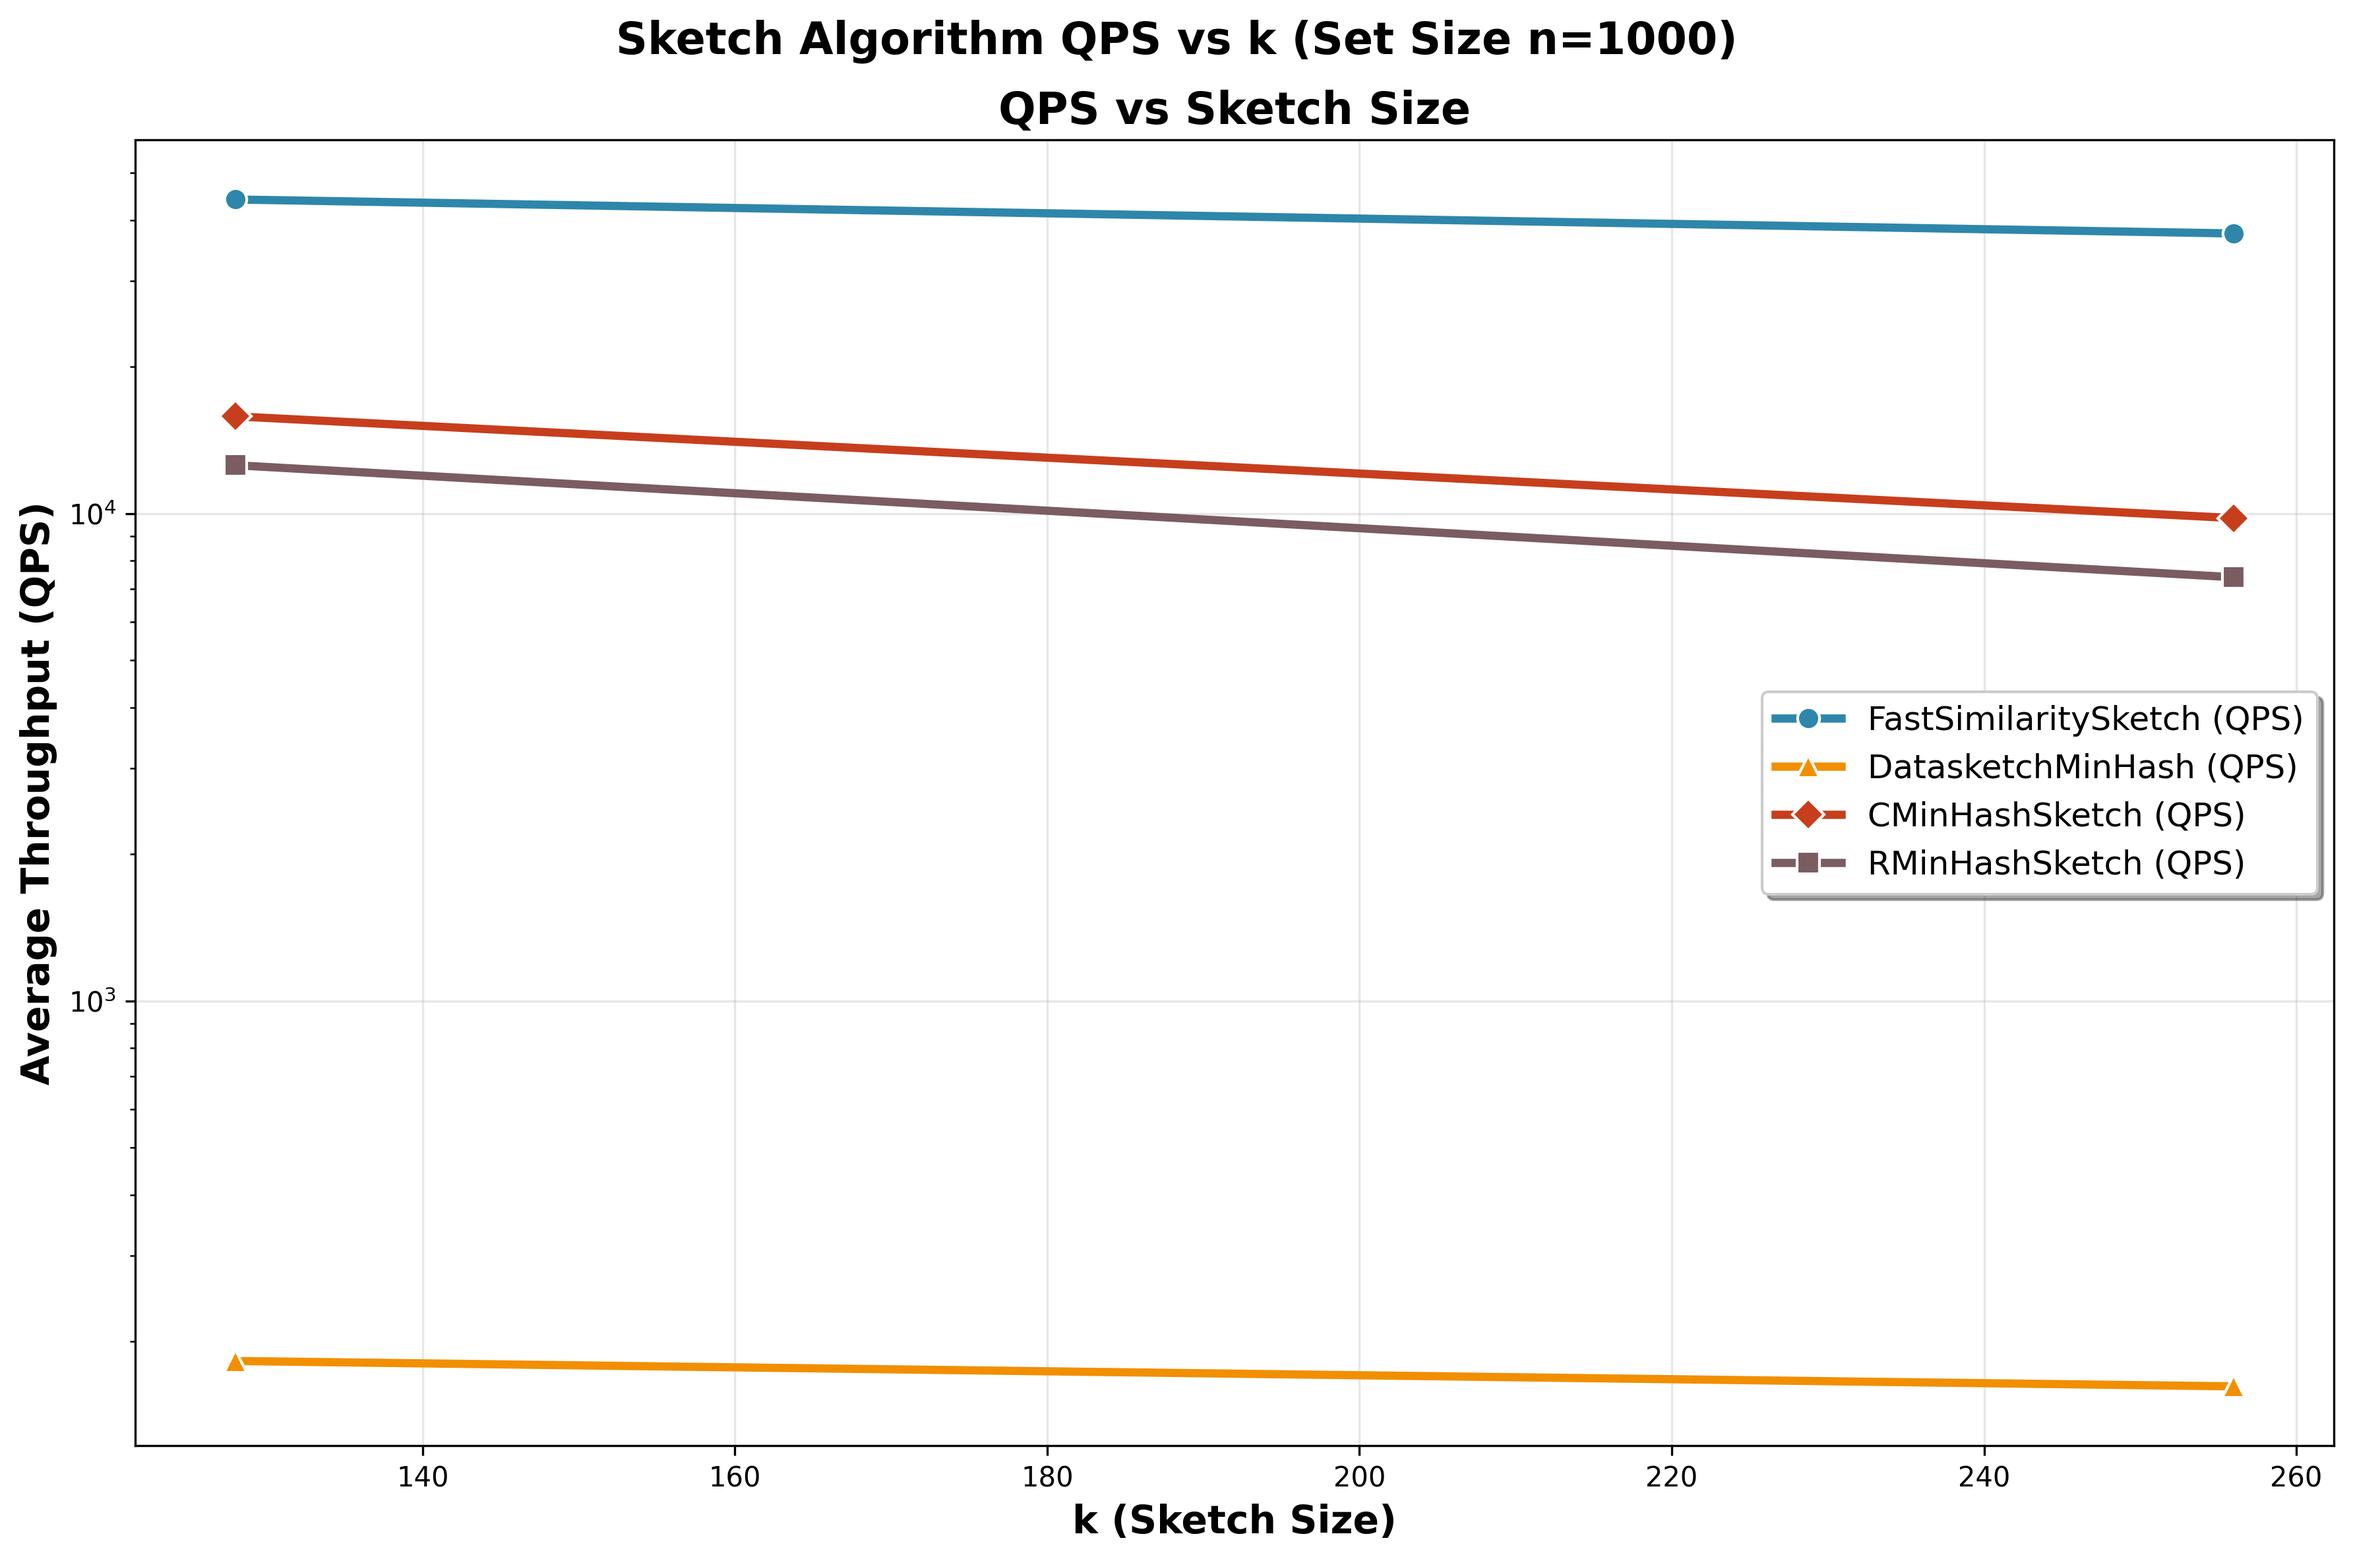
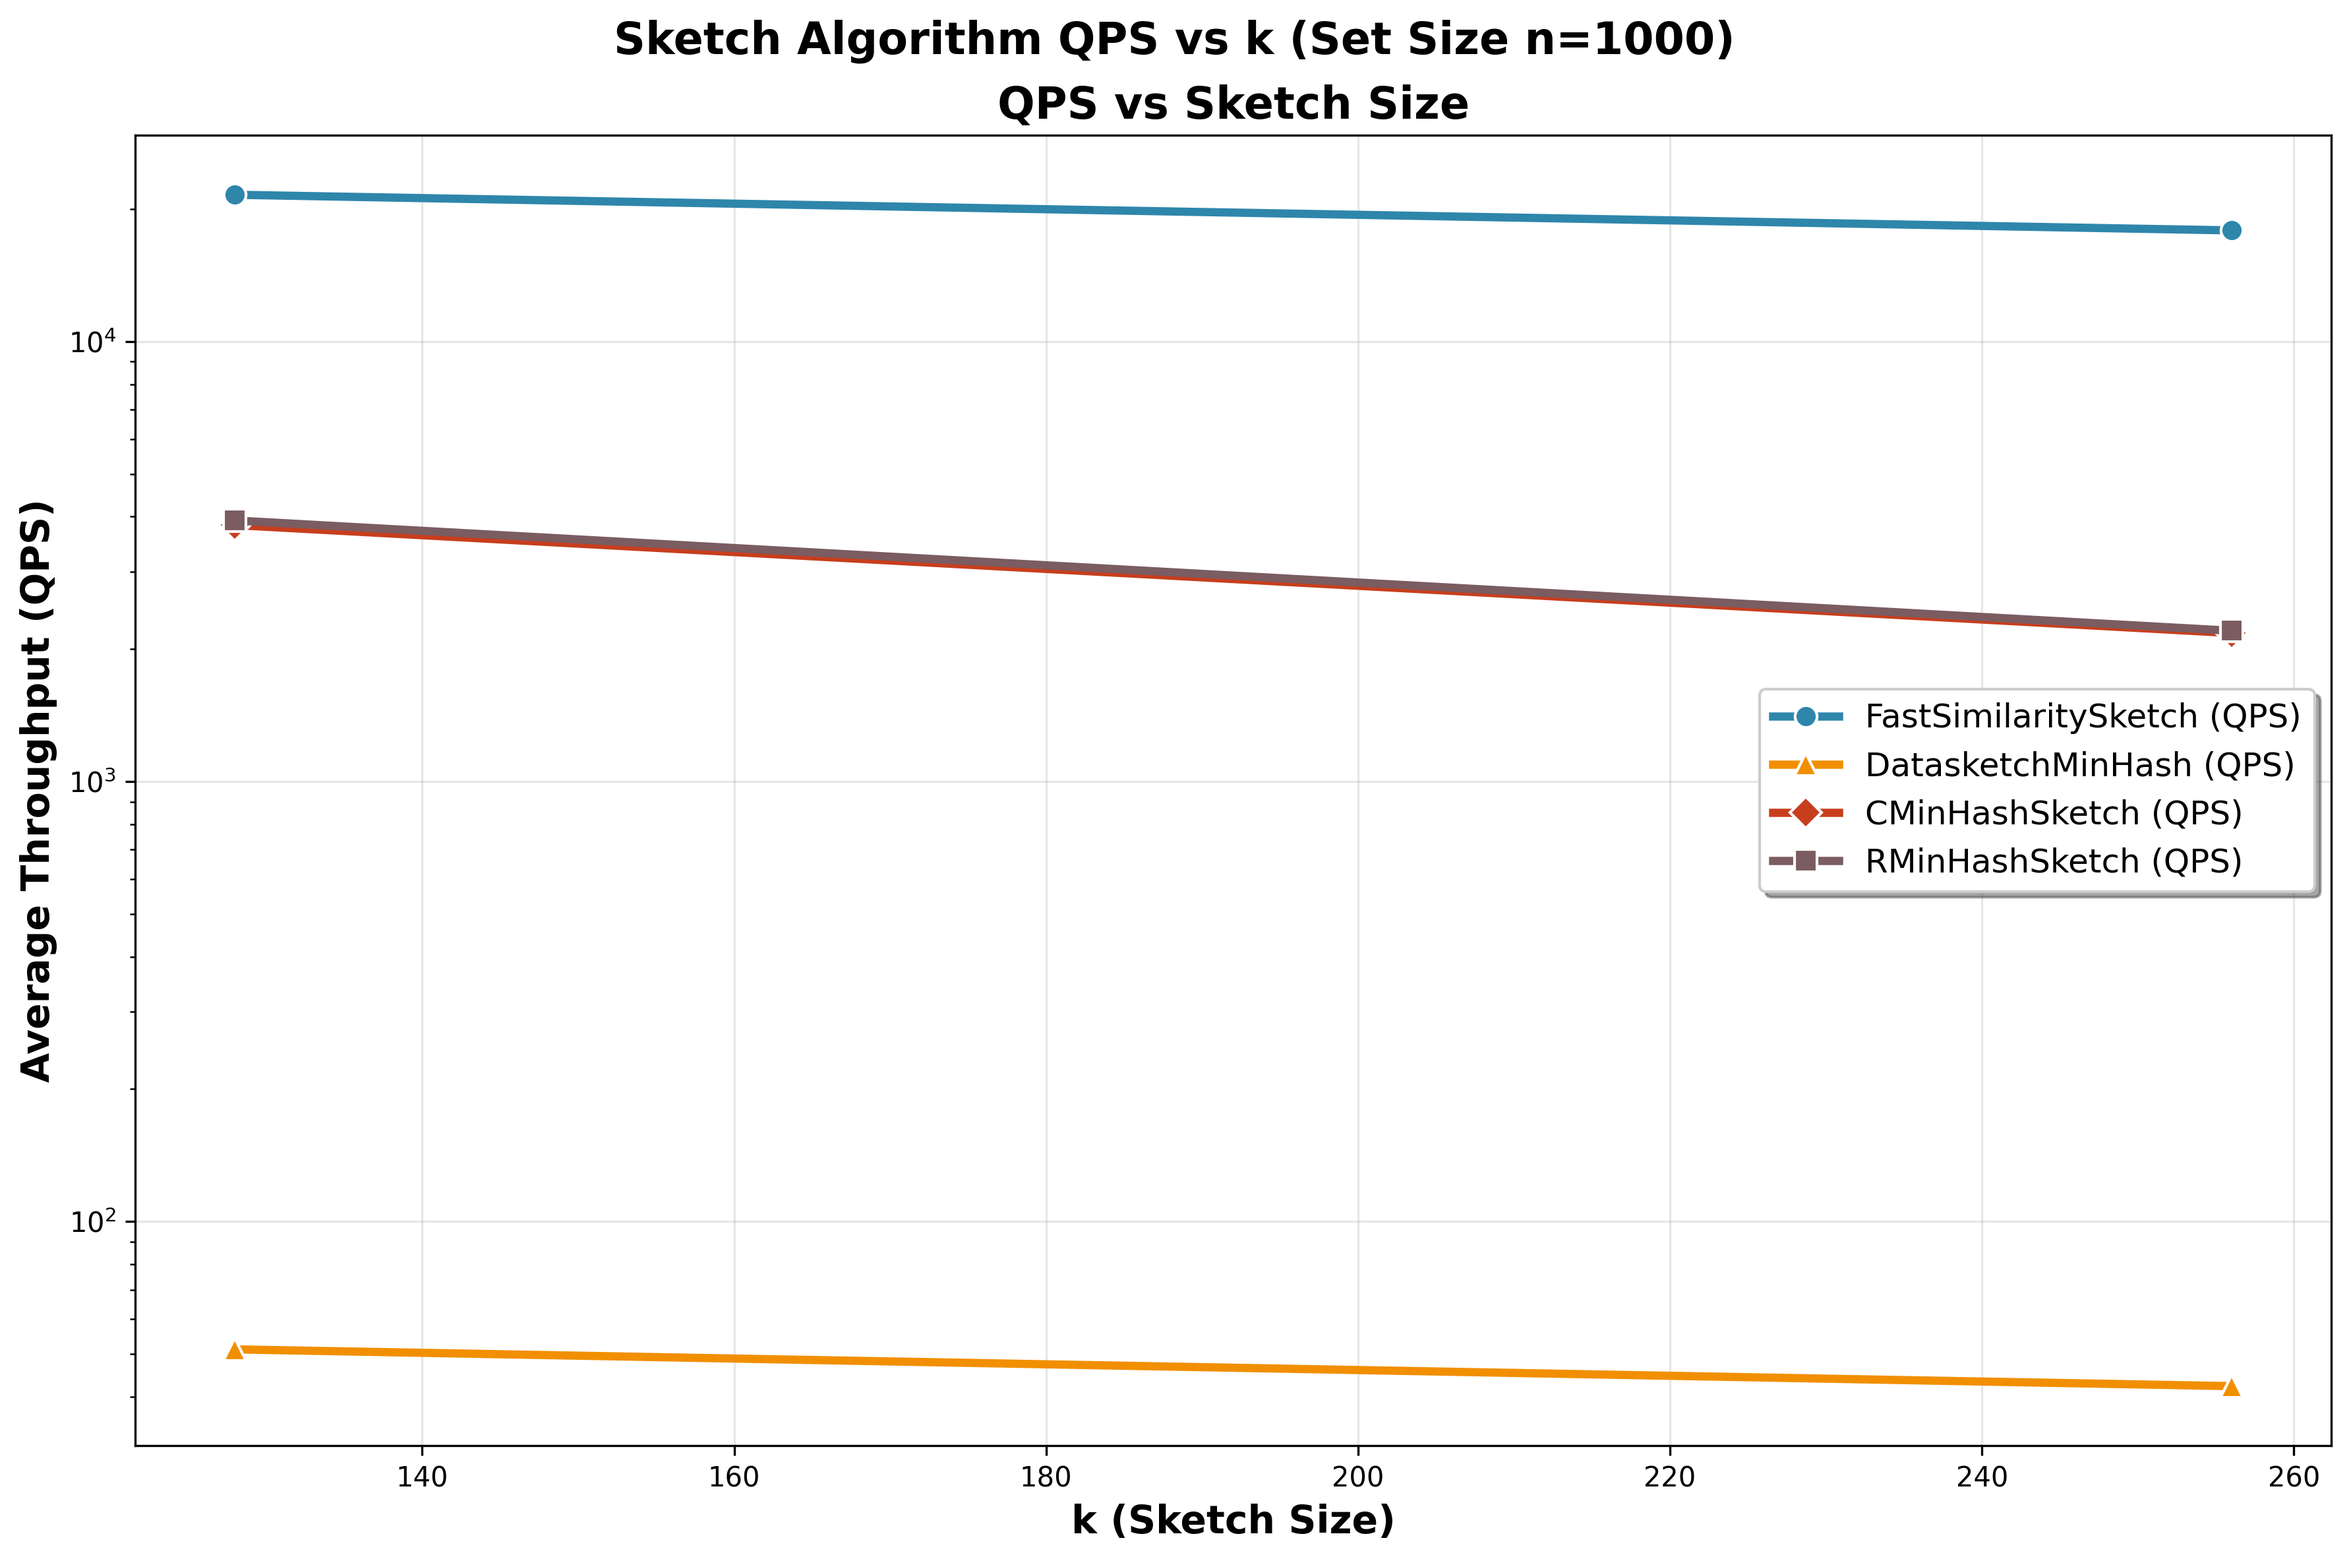
Update sketch comparison results with improved sketch in our package

diff --git a/exps/sketch/compare_sketch.py b/exps/sketch/compare_sketch.py
@@ -252,9 +252,10 @@ class SketchComparison:
         Args:
             filename: Name of the CSV file to create
         """
-        # Always save to the records directory in the project root
-        project_root = os.path.abspath(os.path.join(os.path.dirname(__file__), '..'))
-        filepath = os.path.join(project_root, 'records', filename)
+        # Always save to the records directory alongside this script
+        records_dir = os.path.abspath(os.path.join(os.path.dirname(__file__), 'records'))
+        os.makedirs(records_dir, exist_ok=True)
+        filepath = os.path.join(records_dir, filename)
         fieldnames = [
             'k', 'n', 'true_jaccard',
             'fast_avg_error', 'datasketch_avg_error', 'cmins_avg_error', 'rmins_avg_error',
@@ -272,7 +273,7 @@ if __name__ == '__main__':
     # Run the comparison
     comparison = SketchComparison()
     comparison.run_full_comparison()
-    # comparison.save_results_to_csv()
+    comparison.save_results_to_csv()
 
     print("Comparison complete!")
     print(f"Total tests run: {len(comparison.results)}")
